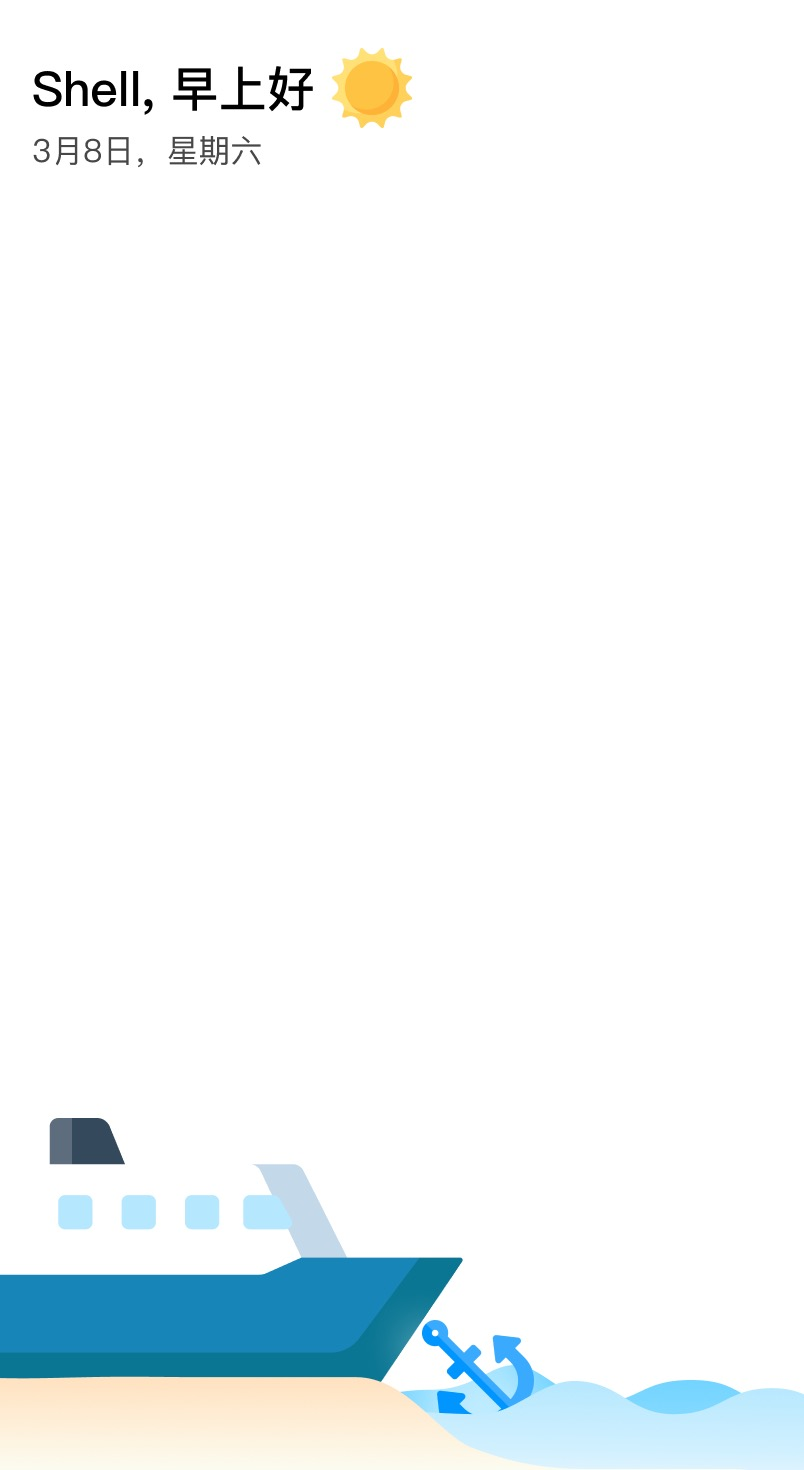
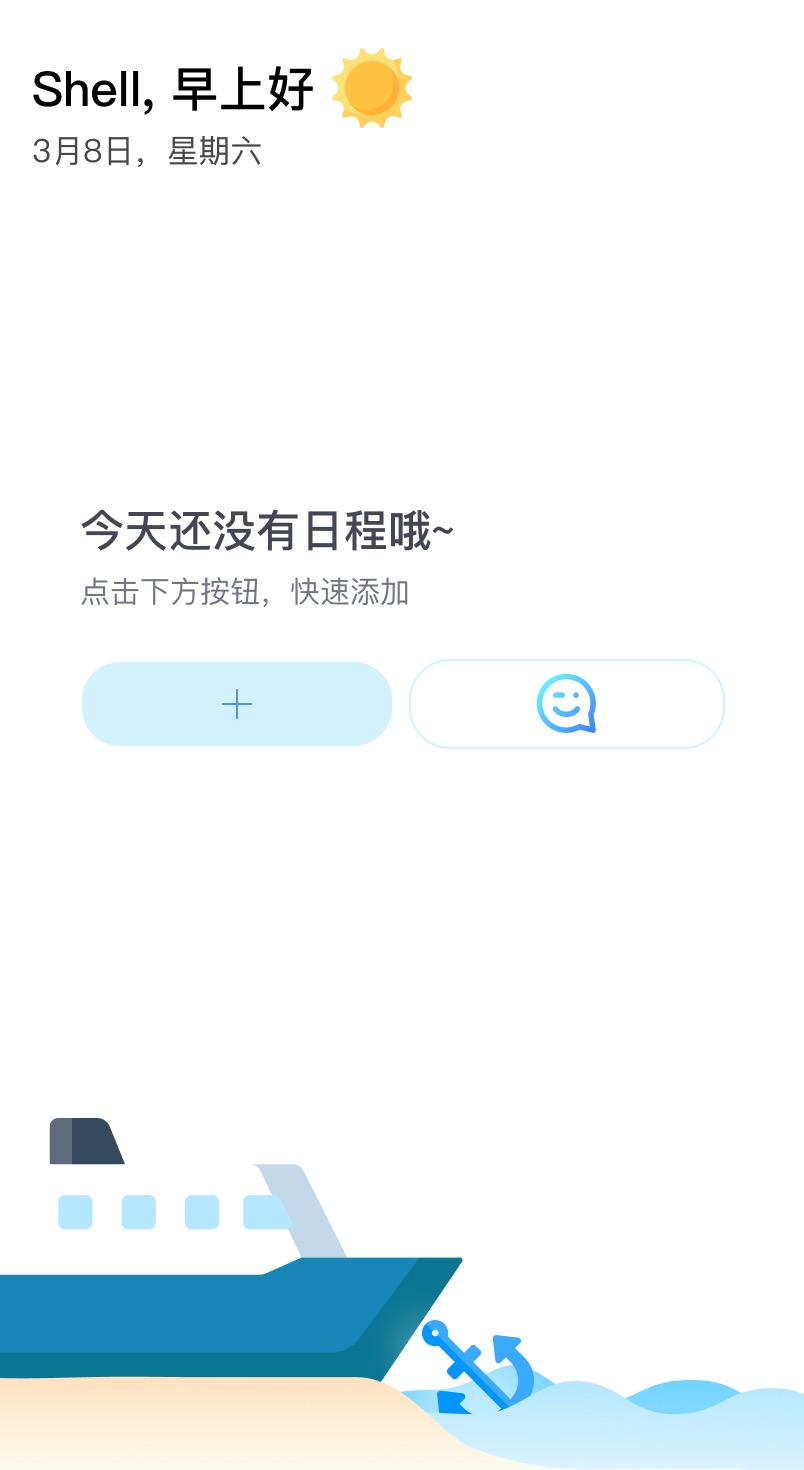
add float tool bar

Changed region(s): [[0.0933, 0.3367, 0.5597, 0.5204], [0.653, 0.4592, 0.7463, 0.5204]]

diff --git a/src/pages/HomePage.tsx b/src/pages/HomePage.tsx
@@ -4,11 +4,15 @@ import TaskItem from '../components/TaskItem';
 import CompletedTasks from '../components/CompletedTasks';
 import QuickAddTask from '../components/QuickAddTask';
 import SailingButton from '../components/SailingButton';
-import { Anchor, Clock } from 'lucide-react';
+import { Anchor, Clock, MessageCircle, Plus } from 'lucide-react';
+import { Dialog } from '@headlessui/react';
 
 const HomePage = () => {
-  const { state } = useAppContext();
+  const { state, dispatch } = useAppContext();
   const [currentDate] = useState(new Date());
+  const [isChatOpen, setIsChatOpen] = useState(false);
+  const [isAddTaskOpen, setIsAddTaskOpen] = useState(false);
+  const [taskTitle, setTaskTitle] = useState('');
   
   const days = ['星期日', '星期一', '星期二', '星期三', '星期四', '星期五', '星期六'];
   const months = ['1月', '2月', '3月', '4月', '5月', '6月', '7月', '8月', '9月', '10月', '11月', '12月'];
@@ -18,6 +22,27 @@ const HomePage = () => {
   const activeTasks = state.tasks.filter(task => !task.completed);
   const anytimeTasks = activeTasks.filter(task => task.isAnytime);
   const scheduledTasks = activeTasks.filter(task => !task.isAnytime);
+
+  const toggleChat = () => {
+    setIsChatOpen(!isChatOpen);
+  };
+  
+  const handleAddTask = (e: React.FormEvent) => {
+    e.preventDefault();
+    if (taskTitle.trim()) {
+      dispatch({
+        type: 'ADD_TASK',
+        payload: {
+          id: Date.now().toString(),
+          title: taskTitle,
+          completed: false,
+          isAnytime: true,
+        },
+      });
+      setTaskTitle('');
+      setIsAddTaskOpen(false);
+    }
+  };
 
   return (
     <div className="pb-20">
@@ -84,12 +109,108 @@ const HomePage = () => {
         
         {/* 已完成任务 */}
         <CompletedTasks />
-        
-        {/* 添加任务按钮 */}
-        <div className="mt-6 flex justify-center">
-          <QuickAddTask />
+      </div>
+      
+      {/* 悬浮工具栏 */}
+      <div className="fixed bottom-24 left-0 right-0 z-50 pointer-events-none" style={{ background: 'transparent' }}>
+        <div className="app-container mx-auto flex justify-end bg-transparent" style={{ boxShadow: 'none' }}>
+          <div className="mr-4 pointer-events-auto inline-flex bg-transparent" style={{ boxShadow: 'none' }}>
+            <div className="bg-white rounded-full shadow-md flex overflow-hidden" style={{ boxShadow: '0 4px 12px rgba(0, 0, 0, 0.08)' }}>
+              {/* 聊天按钮 */}
+              <button 
+                onClick={toggleChat} 
+                className="p-4 flex items-center justify-center border-r border-gray-100"
+                aria-label="打开聊天"
+              >
+                <MessageCircle className="text-sky-400" size={24} />
+              </button>
+              
+              {/* 竖线分隔符 */}
+              <div className="w-[1px] bg-gray-200"></div>
+              
+              {/* 添加任务按钮 */}
+              <button 
+                onClick={() => setIsAddTaskOpen(true)} 
+                className="p-4 flex items-center justify-center"
+                aria-label="添加任务"
+              >
+                <Plus className="text-blue-500" size={24} />
+              </button>
+            </div>
+          </div>
         </div>
       </div>
+      
+      {/* 聊天界面 - 仅当isChatOpen为true时显示 */}
+      {isChatOpen && (
+        <div className="fixed bottom-36 left-0 right-0 z-50 pointer-events-none" style={{ background: 'transparent' }}>
+          <div className="app-container mx-auto flex justify-end bg-transparent" style={{ boxShadow: 'none' }}>
+            <div className="mr-4 pointer-events-auto inline-flex bg-transparent" style={{ boxShadow: 'none' }}>
+              <div className="w-72 bg-white rounded-2xl shadow-md p-4" style={{ boxShadow: '0 4px 12px rgba(0, 0, 0, 0.08)' }}>
+                <div className="flex justify-between items-center mb-3">
+                  <h3 className="font-medium">MinCo助手</h3>
+                  <button onClick={toggleChat} className="text-gray-500">✕</button>
+                </div>
+                <div className="bg-gray-50 rounded-xl p-3 mb-3">
+                  <p className="text-sm text-gray-600">需要我为您做什么呢？</p>
+                </div>
+                <div className="flex">
+                  <input
+                    type="text"
+                    placeholder="输入消息..."
+                    className="flex-1 border border-gray-200 rounded-l-lg px-3 py-2 text-sm focus:outline-none"
+                  />
+                  <button className="bg-sky-400 text-white px-3 rounded-r-lg">发送</button>
+                </div>
+              </div>
+            </div>
+          </div>
+        </div>
+      )}
+      
+      {/* 添加任务对话框 */}
+      <Dialog
+        open={isAddTaskOpen}
+        onClose={() => setIsAddTaskOpen(false)}
+        className="relative z-50"
+      >
+        <div className="fixed inset-0 bg-black/30" aria-hidden="true" />
+        
+        <div className="fixed inset-0 flex items-center justify-center p-4">
+          <Dialog.Panel className="w-full max-w-md rounded-lg bg-white p-6">
+            <Dialog.Title className="text-lg font-medium text-gray-900 mb-4">
+              添加新任务
+            </Dialog.Title>
+            
+            <form onSubmit={handleAddTask}>
+              <input
+                type="text"
+                value={taskTitle}
+                onChange={(e) => setTaskTitle(e.target.value)}
+                placeholder="输入任务内容"
+                className="w-full border border-gray-300 rounded-lg px-3 py-2 mb-4 focus:outline-none focus:ring-2 focus:ring-ocean-500"
+                autoFocus
+              />
+              
+              <div className="flex justify-end space-x-2">
+                <button
+                  type="button"
+                  onClick={() => setIsAddTaskOpen(false)}
+                  className="px-4 py-2 text-sm font-medium text-gray-700 hover:bg-gray-100 rounded-lg"
+                >
+                  取消
+                </button>
+                <button
+                  type="submit"
+                  className="px-4 py-2 text-sm font-medium text-white bg-ocean-600 rounded-lg hover:bg-ocean-700"
+                >
+                  添加
+                </button>
+              </div>
+            </form>
+          </Dialog.Panel>
+        </div>
+      </Dialog>
     </div>
   );
 };

diff --git a/src/pages/EmptySchedulePage.tsx b/src/pages/EmptySchedulePage.tsx
@@ -1,0 +1,48 @@
+import { Calendar, Plus } from 'lucide-react';
+
+const EmptySchedulePage = () => {
+  return (
+    <div className="h-screen bg-white flex flex-col px-4 pt-10 pb-20">
+      {/* 顶部状态栏 */}
+      <div className="bg-ocean-50 p-4 rounded-b-3xl">
+        <div className="flex justify-between items-center mb-4">
+          <div>
+            <h1 className="text-xl font-bold">Shell, 早上好 ☀</h1>
+            <p className="text-gray-600 text-sm">3月8日，星期六</p>
+          </div>
+        </div>
+      </div>
+      
+      {/* 空日程内容 */}
+      <div className="flex-1 flex flex-col items-center justify-center">
+        <div className="w-full max-w-md flex flex-col items-center">
+          <div className="bg-gray-100 rounded-full p-6 mb-4">
+            <Calendar size={48} className="text-gray-400" />
+          </div>
+          
+          <h2 className="text-xl font-medium text-gray-800 mb-2">今天还没有日程哦～</h2>
+          <p className="text-gray-500 text-center mb-8">
+            点击下方按钮，快速添加
+          </p>
+          
+          {/* 添加按钮 */}
+          <button className="bg-gradient-to-r from-ocean-400 to-ocean-500 text-white py-3 px-6 rounded-full flex items-center justify-center shadow-md">
+            <Plus size={20} className="mr-2" />
+            <span>添加任务</span>
+          </button>
+        </div>
+      </div>
+      
+      {/* 底部装饰 */}
+      <div className="w-full">
+        <svg viewBox="0 0 1440 120" className="w-full">
+          <path fill="#38bdf8" fillOpacity="0.7" d="M0,32L48,37.3C96,43,192,53,288,58.7C384,64,480,64,576,53.3C672,43,768,21,864,26.7C960,32,1056,64,1152,69.3C1248,75,1344,53,1392,42.7L1440,32L1440,120L1392,120C1344,120,1248,120,1152,120C1056,120,960,120,864,120C768,120,672,120,576,120C480,120,384,120,288,120C192,120,96,120,48,120L0,120Z"></path>
+          <path fill="#7dd3fc" fillOpacity="0.5" d="M0,64L48,69.3C96,75,192,85,288,80C384,75,480,53,576,58.7C672,64,768,96,864,96C960,96,1056,64,1152,53.3C1248,43,1344,53,1392,58.7L1440,64L1440,120L1392,120C1344,120,1248,120,1152,120C1056,120,960,120,864,120C768,120,672,120,576,120C480,120,384,120,288,120C192,120,96,120,48,120L0,120Z"></path>
+          <path fill="#bae6fd" fillOpacity="0.3" d="M0,96L48,90.7C96,85,192,75,288,69.3C384,64,480,64,576,69.3C672,75,768,85,864,85.3C960,85,1056,75,1152,69.3C1248,64,1344,64,1392,64L1440,64L1440,120L1392,120C1344,120,1248,120,1152,120C1056,120,960,120,864,120C768,120,672,120,576,120C480,120,384,120,288,120C192,120,96,120,48,120L0,120Z"></path>
+        </svg>
+      </div>
+    </div>
+  );
+};
+
+export default EmptySchedulePage; 

diff --git a/src/App.tsx b/src/App.tsx
@@ -7,6 +7,7 @@ import SailingPage from './pages/SailingPage';
 import IdeasPage from './pages/IdeasPage';
 import JournalPage from './pages/JournalPage';
 import ProfilePage from './pages/ProfilePage';
+import EmptySchedulePage from './pages/EmptySchedulePage'; // 新增
 import BottomNavigation from './components/BottomNavigation';
 
 // 添加CSS样式，通过类名控制导航栏的隐藏
@@ -39,6 +40,7 @@ function App() {
                 <HomePage />
               </>
             } />
+            <Route path="/empty-schedule" element={<EmptySchedulePage />} /> {/* 新增空日程页面 */}
             <Route path="/sailing" element={<SailingPage />} />
             <Route path="/ideas" element={
               <>

diff --git a/src/pages/StartPage.tsx b/src/pages/StartPage.tsx
@@ -7,6 +7,10 @@ const StartPage = () => {
   const handleStart = () => {
     navigate('/home');
   };
+  
+  const handleManualArrange = () => {
+    navigate('/empty-schedule');
+  };
 
   return (
     <div className="flex flex-col h-screen bg-white px-4 pt-16 pb-20">
@@ -49,7 +53,10 @@ const StartPage = () => {
       </div>
       
       {/* 手动安排 */}
-      <div className="text-center text-gray-500 mb-6">
+      <div 
+        className="text-center text-gray-500 mb-6 cursor-pointer"
+        onClick={handleManualArrange}
+      >
         手动安排
       </div>
       

diff --git a/src/components/QuickAddTask.tsx b/src/components/QuickAddTask.tsx
@@ -29,10 +29,9 @@ const QuickAddTask = () => {
     <>
       <button
         onClick={() => setIsOpen(true)}
-        className="flex items-center justify-center bg-ocean-100 text-ocean-600 rounded-full px-4 py-2 text-sm font-medium"
+        className="flex items-center justify-center text-blue-500"
       >
-        <Plus size={16} className="mr-1" />
-        <span>添加任务</span>
+        <Plus size={24} />
       </button>
 
       <Dialog
